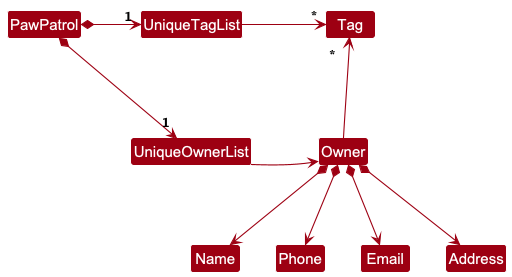
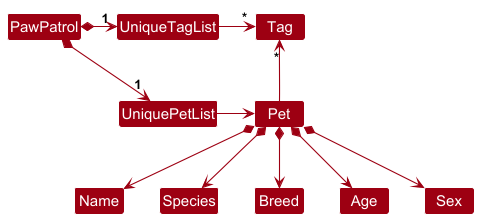
fix dg error

diff --git a/docs/DeveloperGuide.md b/docs/DeveloperGuide.md
@@ -276,8 +276,6 @@ Priorities: High (must have) - `* * *`, Medium (nice to have) - `* *`, Low (unli
 | `*`      | veterinarian | filter for clients with overdue vaccinations     | prioritize these clients for follow-up actions         |
 | `*`      | veterinarian | view and track payments and outstanding balances | manage clinic revenue and follow up on unpaid invoices |
 
-_{More to be added}_
-
 ### Use cases
 
 (For all use cases below, the **System** is the `PawPatrol` and the **Actor** is the `user`, unless specified otherwise)
@@ -390,8 +388,6 @@ _{More to be added}_
 
     Use case resumes at step 1.
 
-_{More to be added}_
-
 ### Non-Functional Requirements
 
 1. Should work on any _mainstream OS_ as long as it has Java `17` or above installed.
@@ -441,30 +437,147 @@ testers are expected to do more *exploratory* testing.
    1. Re-launch the app by double-clicking the jar file.<br>
       Expected: The most recent window size and location is retained.
 
-1. _{ more test cases … }_
+### Adding an owner
 
-### Deleting a person
+1. Adding a new owner
 
-1. Deleting a person while all persons are being shown
-
-   1. Prerequisites: List all persons using the `list` command. Multiple persons in the list.
-
-   1. Test case: `delete 1`<br>
-      Expected: First contact is deleted from the list. Details of the deleted contact shown in the status message.
-      Timestamp in the status bar is updated.
-
-   1. Test case: `delete 0`<br>
-      Expected: No person is deleted. Error details shown in the status message. Status bar remains the same.
-
-   1. Other incorrect delete commands to try: `delete`, `delete x`, `...` (where x is larger than the list size)<br>
+   1. Test case: `owner i/S0000001I n/John Doe p/98765432 e/johnd@example.com a/311, Clementi Ave 2, #02-25`
+   2. Expected: A new owner is added to the list. The owner’s details are shown in the list.
+   3. Test case: `owner i/S0000001I n/John Doe p/98765432 e/johnd@example.com a/311, Clementi Ave 2, #02-25`
+   4. Expected: No new owner is added. Error details shown in the status message.
+   5. Other incorrect add commands to try: `owner`, `owner x`, `...`<br>
       Expected: Similar to previous.
 
-1. _{ more test cases … }_
+### Adding a pet
 
-### Saving data
+1. Adding a new pet
 
-1. Dealing with missing/corrupted data files
+   1. Test case: `pet n/Fluffy s/Dog b/Golden Retriever a/7 x/F`
+   2. Expected: A new pet is added to the list. The pet’s details are shown in the list.
+   3. Test case: `pet n/Fluffy s/Dog b/Golden Retriever a/7 x/F`
+   4. Expected: No new pet is added. Error details shown in the status message. Status bar remains the same.
+   5. Other incorrect add commands to try: `pet`, `pet x`, `...`<br>
+      Expected: Similar to previous.
 
-   1. _{explain how to simulate a missing/corrupted file, and the expected behavior}_
+### Linking
 
-1. _{ more test cases … }_
+1. Link owners and pets
+   1. Pre-requisite: Add owners and pets using the `owner` and `pet` commands.
+   2. Test case: `link o1 t/p1 t/p2`
+   3. Expected: Owners and pets are linked. The link details are shown in the status message.
+   4. Test case: `link o1 t/p1 t/p2`
+   5. Expected: No new links are added. Error details shown in the status message. Status bar remains the same.
+   6. Other incorrect link commands to try: `link`, `link x`, `...`<br>
+      Expected: Similar to previous.
+   7. Test case: `link o2 t/p1`
+   8. Expected: Error details shown in the status message due to missing owner.
+
+### Unlinking
+
+1. Unlinking owners and pets
+   1. Pre-requisite: Link owners and pets using the `link` command.
+   2. Test case: `unlink o1 t/p1`
+   3. Expected: Owners and pets are unlinked. The unlink details are shown in the status message.
+   4. Test case: `unlink o1 t/p1`
+   5. Expected: No links are removed. Error details shown in the status message. Status bar remains the same.
+   6. Other incorrect unlink commands to try: `unlink`, `unlink x`, `...`<br>
+      Expected: Similar to previous.
+
+### Listing
+
+1. Listing data
+
+   1. Test case: `list`<br>
+      Expected: All owners and pets are shown in the list.
+   2. Test case: `list owners`<br>
+      Expected: All owners are shown in the list. Pets are not shown.
+   3. Test case: `list pets`<br>
+      Expected: All pets are shown in the list. Owners are not shown.
+   4. Test case: `list x`<br>
+      Expected: Error details shown in the status message. Status bar remains the same.
+
+### Editing
+
+1. Editing owner details
+
+   1. Pre-requisite: Add owners using the `owner` command.
+   2. Test case: `edit o1 n/John Doe p/98765432
+   3. Expected: Owner details are updated. Updated owner details are shown in the list.
+   4. Test case: `edit o0 n/John Doe p/98765432
+   5. Expected: No owner is updated. Error details shown in the status message.
+   6. Other incorrect edit commands to try: `edit`, `edit x`, `...`<br>
+      Expected: Similar to previous.
+
+2. Editing pet details
+
+   1. Pre-requisite: Add pets using the `pet` command.
+   2. Test case: `edit p1 n/Fluffy s/Dog b/Golden Retriever a/7 x/F`
+   3. Expected: Pet details are updated. Updated pet details are shown in the list.
+   4. Test case: `edit p0 n/Fluffy s/Dog b/Golden Retriever a/7 x/F`
+   5. Expected: No pet is updated. Error details shown in the status message.
+   6. Other incorrect edit commands to try: `edit`, `edit x`, `...`<br>
+      Expected: Similar to previous.
+
+### Finding
+
+1. Finding owners
+   1. Test case: `find owner John`<br>
+      Expected: All persons with the name John are shown in the list.
+
+2. Finding pets
+   1. Test case: `find pet Fluffy`<br>
+      Expected: All pets with the name Fluffy are shown in the list.
+
+### Deleting an entity
+
+1. Deleting an owner while all owners are being shown
+
+   1. Prerequisites: List all owners using the `list owner` command. Multiple owners in the list.
+
+   1. Test case: `delete o1`<br>
+      Expected: First contact is deleted from the list. Details of the deleted contact shown in the status message.
+
+   1. Test case: `delete o0`<br>
+      Expected: No owner is deleted. Error details shown in the status message. Status bar remains the same.
+
+   1. Other incorrect delete commands to try: `delete`, `delete ox`, `...` (where x is larger than the list size)<br>
+      Expected: Similar to previous.
+
+2. Deleting a pet while all pets are being shown
+
+   1. Prerequisites: List all pets using the `list pet` command. Multiple pets in the list.
+
+   1. Test case: `delete p1`<br>
+      Expected: First pet is deleted from the list. Details of the deleted pet shown in the status message.
+
+   1. Test case: `delete p0`<br>
+      Expected: No pet is deleted. Error details shown in the status message. Status bar remains the same.
+
+   1. Other incorrect delete commands to try: `delete`, `delete px`, `...` (where x is larger than the list size)<br>
+      Expected: Similar to previous.
+
+### Sorting
+
+1. Sorting owners
+
+   1. Test case: `sort owner`<br>
+      Expected: All owners are shown in the list, sorted by name.
+
+2. Sorting pets
+
+    1. Test case: `sort pet`<br>
+        Expected: All pets are shown in the list, sorted by name.
+
+### Clearing data
+
+1. Clearing all entity
+
+   1. Test case: `clear`<br>
+      Expected: All entity are removed from the list.
+
+### Exiting the app
+
+1. Exiting the app
+
+   1. Test case: `exit`<br>
+      Expected: The app closes.
